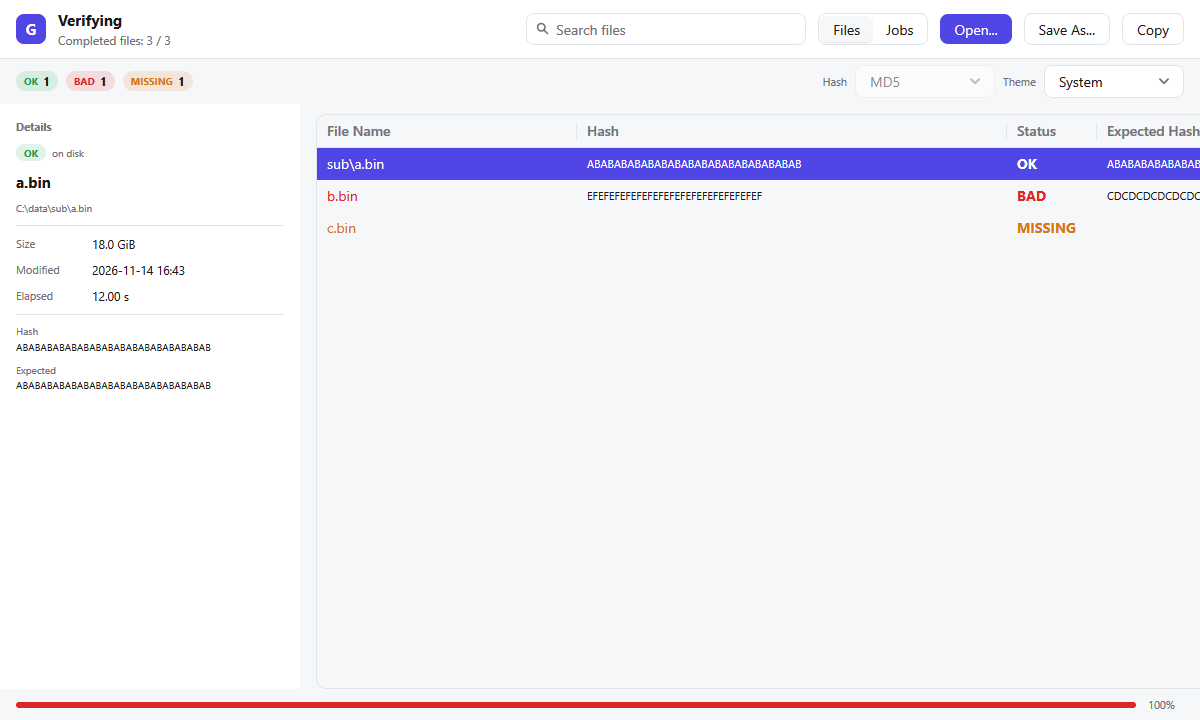
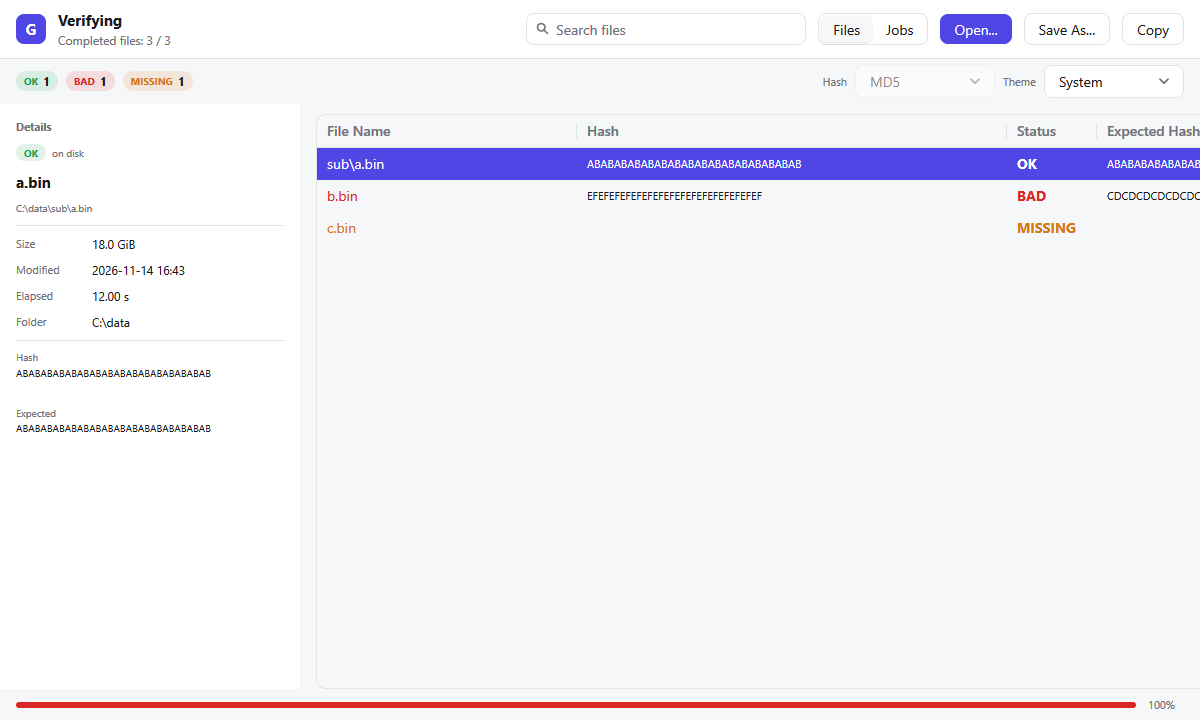
ui: keep the details sidebar stable while the selection changes
The table now builds before the sidebar, with the row reversed so the sidebar stays on the left, so a click updates the panel in the same frame. The empty state uses the same blocks, rows and fixed digest height as a single file, so selecting the first row fills values in instead of replacing a short message with a taller panel. The multi-selection header uses the same title/subtitle block, and the main column can shrink to its real width.

Changed region(s): [[0.0, 0.4278, 0.185, 0.6111]]

diff --git a/internal/gui/details.go b/internal/gui/details.go
@@ -13,6 +13,10 @@ import (
 // system, so opening a file, selecting a thousand or resizing the window
 // all stay on the main thread for a bounded, tiny amount of work.
 func (a *App) detailsPanel(c *ui.Context) {
+	// Built after the table, so a click this frame is already in the
+	// selection; there is no frame that shows the previous choice.
+	a.refreshSelection(a.selDirty)
+	a.selDirty = false
 	t := c.Theme()
 	side := ui.Column(c).Width(300).Shrink(0).Background(t.Surface)
 	side.Children(func() {
@@ -40,13 +44,27 @@ func (a *App) detailsPanel(c *ui.Context) {
 	})
 }
 
+// emptyDetails deliberately has the same blocks and row count as
+// singleDetails: selecting the first file fills values in instead of
+// replacing a short message with a taller panel.
 func (a *App) emptyDetails(c *ui.Context) {
 	t := c.Theme()
-	ui.Text(c, "Nothing selected").FontSize(15).Bold()
-	ui.Text(c, "Click a file to see its size, date, hashes and timing.").FontSize(11).TextColor(t.TextMuted)
+	ui.Row(c).AlignItems(ui.Center).Gap(6).Children(func() {
+		ui.Row(c).Padding(2, 8).Radius(999).Background(t.SurfacePressed).Shrink(0).Children(func() {
+			ui.Text(c, "—").FontSize(10).Bold().TextColor(t.TextMuted).SingleLine()
+		})
+		ui.Text(c, "No selection").FontSize(10).TextColor(t.TextMuted)
+	})
+	ui.Text(c, "No file selected").FontSize(15).Bold().SingleLine()
+	ui.Text(c, "Click a file to inspect it.").FontSize(10).TextColor(t.TextMuted).SingleLine()
 	ui.Divider(c)
-	a.detailField(c, "Files", strconv.Itoa(len(a.store)))
-	a.detailField(c, "Algorithm", a.algo.Label())
+	a.detailField(c, "Size", "—")
+	a.detailField(c, "Modified", "—")
+	a.detailField(c, "Elapsed", "—")
+	a.detailField(c, "Folder", "—")
+	ui.Divider(c)
+	a.hashField(c, "Hash", "—")
+	a.hashField(c, "Expected", "—")
 }
 
 func (a *App) singleDetails(c *ui.Context, d *fileDetail) {
@@ -63,7 +81,7 @@ func (a *App) singleDetails(c *ui.Context, d *fileDetail) {
 		}
 	})
 	ui.Text(c, d.Name).FontSize(15).Bold().SingleLine().Tooltip(d.Name)
-	ui.Text(c, d.Path).FontSize(10).TextColor(t.TextMuted).Tooltip(d.Path)
+	ui.Text(c, d.Path).FontSize(10).TextColor(t.TextMuted).SingleLine().Tooltip(d.Path)
 	ui.Divider(c)
 	a.detailField(c, "Size", formatBytes(d.Size))
 	if d.StatOK {
@@ -73,6 +91,11 @@ func (a *App) singleDetails(c *ui.Context, d *fileDetail) {
 		ui.Text(c, d.StatErr).FontSize(10).TextColor(t.Warning)
 	}
 	a.detailField(c, "Elapsed", formatDuration(d.Elapsed))
+	folder := d.Dir
+	if folder == "" {
+		folder = "—"
+	}
+	a.detailField(c, "Folder", folder)
 	if d.Hash != "" {
 		ui.Divider(c)
 		a.hashField(c, "Hash", d.Hash)
@@ -84,8 +107,31 @@ func (a *App) singleDetails(c *ui.Context, d *fileDetail) {
 
 func (a *App) multiDetails(c *ui.Context, info *selectionInfo) {
 	t := c.Theme()
-	ui.Textf(c, "%d files", info.Count).FontSize(22).Bold()
-	ui.Text(c, formatBytes(info.TotalSize)).FontSize(13).TextColor(t.TextMuted)
+	ui.Row(c).AlignItems(ui.Center).Gap(6).Children(func() {
+		ui.Row(c).Padding(2, 8).Radius(999).Background(t.Accent.Alpha(0.13)).Shrink(0).Children(func() {
+			ui.Text(c, "MULTI").FontSize(10).Bold().TextColor(t.Accent).SingleLine()
+		})
+		if info.Found < info.Count {
+			ui.Textf(c, "%d of %d present", info.Found, info.Count).FontSize(10).TextColor(t.Warning).SingleLine()
+		}
+	})
+	ui.Textf(c, "%d files", info.Count).FontSize(15).Bold().SingleLine()
+	ui.Text(c, formatBytes(info.TotalSize)).FontSize(10).TextColor(t.TextMuted).SingleLine()
+	ui.Divider(c)
+	a.detailField(c, "Size", formatBytes(info.TotalSize))
+	a.detailField(c, "Folders", strconv.Itoa(info.Folders))
+	a.detailField(c, "Elapsed", formatDuration(info.TotalElapsed))
+	if info.LargestName != "" {
+		a.detailField(c, "Largest", info.LargestName+" · "+formatBytes(info.LargestSize))
+	} else {
+		a.detailField(c, "Largest", "—")
+	}
+	if info.SmallestName != "" && info.SmallestSize != info.LargestSize {
+		a.detailField(c, "Smallest", info.SmallestName+" · "+formatBytes(info.SmallestSize))
+	} else {
+		a.detailField(c, "Smallest", "—")
+	}
+	ui.Divider(c)
 	ui.Row(c).Gap(6).Wrap().Children(func() {
 		if info.OK > 0 {
 			a.statChip(c, "OK", info.OK, t.Success)
@@ -103,18 +149,6 @@ func (a *App) multiDetails(c *ui.Context, info *selectionInfo) {
 			a.statChip(c, "WAITING", info.Waiting, t.TextMuted)
 		}
 	})
-	ui.Divider(c)
-	if info.Found < info.Count {
-		a.detailField(c, "Present", fmt.Sprintf("%d of %d", info.Found, info.Count))
-	}
-	a.detailField(c, "Folders", strconv.Itoa(info.Folders))
-	a.detailField(c, "Elapsed", formatDuration(info.TotalElapsed))
-	if info.LargestName != "" {
-		a.detailField(c, "Largest", info.LargestName+" · "+formatBytes(info.LargestSize))
-	}
-	if info.SmallestName != "" && info.SmallestSize != info.LargestSize {
-		a.detailField(c, "Smallest", info.SmallestName+" · "+formatBytes(info.SmallestSize))
-	}
 }
 
 // detailField is one label and one value. The value is clipped to the
@@ -133,7 +167,11 @@ func (a *App) hashField(c *ui.Context, label, value string) {
 	t := c.Theme()
 	ui.Column(c).Gap(2).Children(func() {
 		ui.Text(c, label).FontSize(10).TextColor(t.TextMuted).SingleLine()
-		ui.Text(c, value).FontSize(10).Tooltip(value)
+		// Two lines fit a SHA-256 at this width; keeping the height fixed
+		// means switching files never grows or shrinks the panel.
+		ui.Column(c).Height(30).Children(func() {
+			ui.Text(c, value).FontSize(10).Tooltip(value)
+		})
 	})
 }
 

diff --git a/internal/gui/view.go b/internal/gui/view.go
@@ -42,17 +42,15 @@ func (a *App) view(c *ui.Context) {
 		a.applyView()
 	}
 
-	// The details job is started here, while the previous frame's selection
-	// is known, and never does its work on this thread. A hidden sidebar
-	// does not start or keep one.
-	if a.settings.ShowDetails && !a.modeJobs {
-		a.refreshSelection(a.selDirty)
-	} else if a.sel.Count != 0 || a.sel.Loading {
-		a.cancelSelection()
-		a.sel = selectionInfo{}
-		a.selSig = selectionSig{}
+	// A hidden sidebar does not start or keep a details job.
+	if !a.settings.ShowDetails || a.modeJobs {
+		if a.sel.Count != 0 || a.sel.Loading {
+			a.cancelSelection()
+			a.sel = selectionInfo{}
+			a.selSig = selectionSig{}
+		}
+		a.selDirty = false
 	}
-	a.selDirty = false
 
 	applyPalette(c)
 	t := c.Theme()
@@ -66,11 +64,10 @@ func (a *App) view(c *ui.Context) {
 	root.Children(func() {
 		a.header(c)
 		a.statusBar(c)
-		ui.Row(c).Fill().AlignItems(ui.Stretch).Children(func() {
-			if a.settings.ShowDetails && !a.modeJobs {
-				a.detailsPanel(c)
-			}
-			ui.Column(c).Fill().Grow(1).Children(func() {
+		// The table comes first in the build so the sidebar sees the row
+		// this frame's click chose; Reverse keeps the sidebar on the left.
+		ui.Row(c).Fill().AlignItems(ui.Stretch).Reverse().Children(func() {
+			ui.Column(c).Fill().Grow(1).MinWidth(0).Children(func() {
 				if !a.modeJobs && a.settings.ShowFilter {
 					a.filterBar(c)
 				}
@@ -89,6 +86,9 @@ func (a *App) view(c *ui.Context) {
 					a.activePanel(c)
 				}
 			})
+			if a.settings.ShowDetails && !a.modeJobs {
+				a.detailsPanel(c)
+			}
 		})
 		a.footer(c)
 	})

diff --git a/internal/gui/gui_test.go b/internal/gui/gui_test.go
@@ -80,6 +80,20 @@ func TestViewShowsDetailsSidebar(t *testing.T) {
 	}
 }
 
+func TestDetailsSidebarFollowsClick(t *testing.T) {
+	a := testApp()
+	tt := ui.NewTester(a.view, 1200, 720)
+	if err := tt.Click("b.bin"); err != nil {
+		t.Fatal(err)
+	}
+	if a.sel.Count != 1 || !a.sel.HasSingle || a.sel.Single.Name != "b.bin" {
+		t.Fatalf("selection after click = %+v", a.sel)
+	}
+	if tt.HasText("Click a file to inspect it.") {
+		t.Error("sidebar still shows the empty state after a click")
+	}
+}
+
 func TestViewShowsFiles(t *testing.T) {
 	a := testApp()
 	tt := ui.NewTester(a.view, 1100, 700)
